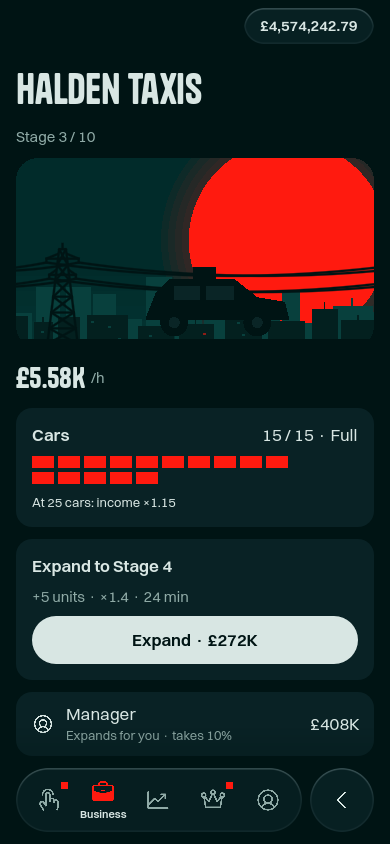
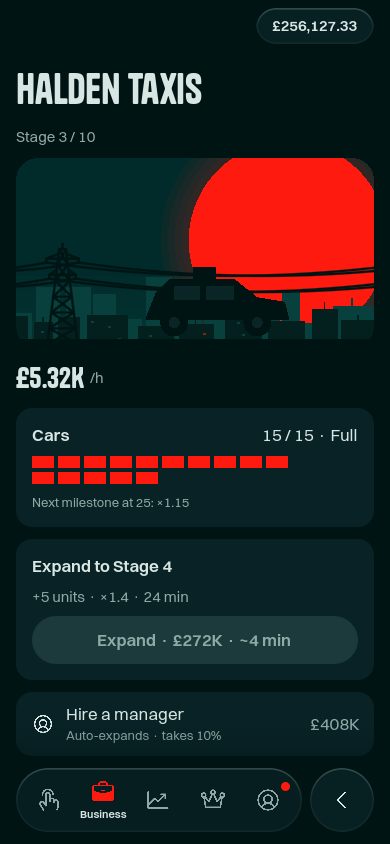
Simpler screens, quieter messages, faster refresh
Owner: simplify and compact the game, and optimise it.
- Welcome back and the daily gift are one card; achievement toasts
  removed (the Profile dot says one waits); toasts sit under the cash pill.
- Pages refresh at most 4 times a second with a trailing refresh; the
  Business tab caches text measuring and paints its More pill once.
  Measured: Business refresh 9.7 ms to 1.1 ms, and 10/s to 4/s.
- Touch test gives the coin page room to scroll (the page is short now).
- Docs: changelog, design (battery, £ amounts), balance (dividends);
  fresh README pictures.

Claude-Session: https://claude.ai/code/session_01G43aEuqkjUy83khniNYyKE

diff --git a/docs/DESIGN.md b/docs/DESIGN.md
@@ -42,8 +42,8 @@ Rules:
 | Captions, sub-lines | Switzer Regular | 13 |
 
 - Tanker and Switzer come from Fontshare at build time (licence: allowed in the app, not in the repo). Inter is the fallback if the download fails.
-- Tanker is all caps, so keep display text short. Money suffixes like "Qi" read as "QI" in Tanker; avoid display type for values above $1e18.
-- Money: `Game.money()` for exact amounts, `Game.money_short()` for everything else ($32K, $1.2M, $12.27M). No trailing zeros.
+- Tanker is all caps, so keep display text short. Money suffixes like "Qi" read as "QI" in Tanker; avoid display type for values above £1e18.
+- Money: `Game.money()` for exact amounts, `Game.money_short()` for everything else (£32K, £1.2M, £12.27M). No trailing zeros.
 
 ## Layout
 
@@ -87,6 +87,8 @@ No icon or logo inside a coloured tile or circle. Icons are Phosphor, drawn bare
 
 ## Battery
 
+- Pages refresh at most 4 times a second (`Page.REFRESH_MS`), with a final refresh after the last change. Avoid measuring text or making styleboxes in `refresh()`; cache them.
+
 - The game draws at most 60 frames a second (`run/max_fps`), and 5 while it is out of focus (notification shade, a call). It saves when it loses focus.
 
 ## Haptics
@@ -109,7 +111,7 @@ No icon or logo inside a coloured tile or circle. Icons are Phosphor, drawn bare
 - Tap combo counter on the tower ("25 COMBO") is just for fun and pays nothing extra.
 - A golden sun sometimes drifts across the tower (max 4 a day, only while playing). Tap it for a small prize.
 - Filters and sorts are drop-downs (`Kit.drop_pill()` + `Kit.pick()`), never rows of chips. Lists don't jump while you look at them.
-- Earn shows cash to the penny ($1,385.62) as the big number; net worth sits below it.
+- Earn shows cash to the penny (£1,385.62) as the big number; income and net worth sit below it. No next-goal card (owner removed it).
 - Every art kind has its own setting in `Art.SCENES`: where the sun sits and how big, the skyline (city, dense, cranes, hills, none) and the ground (street, water with the sun's reflection, runway, field). Only some get a pylon. A new kind needs its own entry, so no two pictures look alike.
 - Company rows on the Business tab are compact: picture, name, stage and units, income, a thin bar, and a red dot only when something can be bought.
 - Art scenes share one backdrop (`Art.backdrop`): sun with a soft glow, far skyline, low mist, and a pylon with hanging cables on big pictures.
@@ -128,7 +130,7 @@ One word per idea, everywhere: "units" (not outlets/spaces), "Stage", "Expand", 
 ## Words
 
 - British English, short, plain. One line beats two. Numbers beat adjectives.
-- Say what happens: "Expand · $272K", "Tap the tower to earn", "Ready again in 3:12".
+- Say what happens: "Expand · £272K", "Tap the tower to earn", "Ready again in 3:12".
 - No jargon without a hint. Staking, dividends and mergers each have a short explanation where they appear.
 - No em dashes, no "seamless", "elevate", "unlock your potential" or similar filler (rule R4 checks the dashes).
 

diff --git a/docs/BALANCE.md b/docs/BALANCE.md
@@ -36,7 +36,7 @@ Companies: 17, sorted by price. New ones fill price gaps (Food trucks, Gym chain
 | Companies | units × unit income × stage multiplier × merger × global bonus | `BUSINESSES`, `stage_mult` |
 | Expansions | real-time timers, doubling each stage, max 48 h | `expansion_minutes()` |
 | Property | 2.2% of price per hour, improvements add more | `RENT_PER_H`, `IMPROVEMENTS` |
-| Shares | dividends; prices drift slowly back to a fair value; news moves them at once | `STOCK_DIV_SCALE`, `_market_tick()` |
+| Shares | dividends paid once an hour on the hour at a set rate per share (base price x yield x `STOCK_DIV_SCALE`, plus bonuses), not tied to the live price; time away pays missed hours up to the away cap; prices drift slowly back to a fair value; news moves them at once. Pace unchanged (90% day 38.3 vs 37.9) | `dividend_rate()`, `_pay_dividends()` |
 | Crypto | random walk with boom and bust phases (no pull home), staking (24 h lock, capped) | `COINS`, `STAKE_CAP` |
 | Converting coins | sell at the usual 0.5% spread, then buy the other coin; nothing gained, so no loop | `convert_coin()` |
 | Mining | one pool of miners mining one coin you choose (switch free, any time); a miner earns 4% of its price an hour in £ for any coin (pays back in about a day), with no cap tied to income; each miner costs ×1.7 more, 40 max, which keeps mining to roughly 10 to 25% of income | `RIG_*`, `MINE_*` |

diff --git a/CHANGELOG.md b/CHANGELOG.md
@@ -1,5 +1,25 @@
 # Changelog
 
+## Hourly dividends, a simpler game, smoother running
+
+- Shares now pay dividends once an hour, on the hour, at a set rate per
+  share that differs by company (it no longer moves with the price). Invest
+  shows when the next one lands; time away pays the hours you missed.
+- Earn: the "Open ... / Buy now" card is gone, so the tower has more room.
+- Welcome back and the daily gift are one card with one Claim button.
+- Achievements no longer pop a message; the round dot on Profile says one
+  is waiting. Messages sit under your cash, never on top of it.
+- Trade pop-up: the amount shows once, "Type an amount" opens the box, the
+  fee is shown. Coin and share pages are shorter; Buy and Sell sit higher.
+- Invest: empty news hides; Property has Yours and Market; miners are one
+  row with the payback on the button; picking a coin shows logos.
+- Claim rewards by tapping the row; New company folds owned kinds away;
+  Profile puts Rebirth, Achievements and Rivals first with a compact money
+  bar; Rivals shows the ones just above you; calmer item colours.
+- Casino, roulette, blackjack and rebirth screens tidied; nothing cut off.
+- Faster: screens refresh at most 4 times a second, and the Business tab
+  does about 10 times less work each time (better battery).
+
 ## Sun Forge: a modern slot
 
 - New machine at the top of the casino: a 6 x 5 grid where symbols pay
